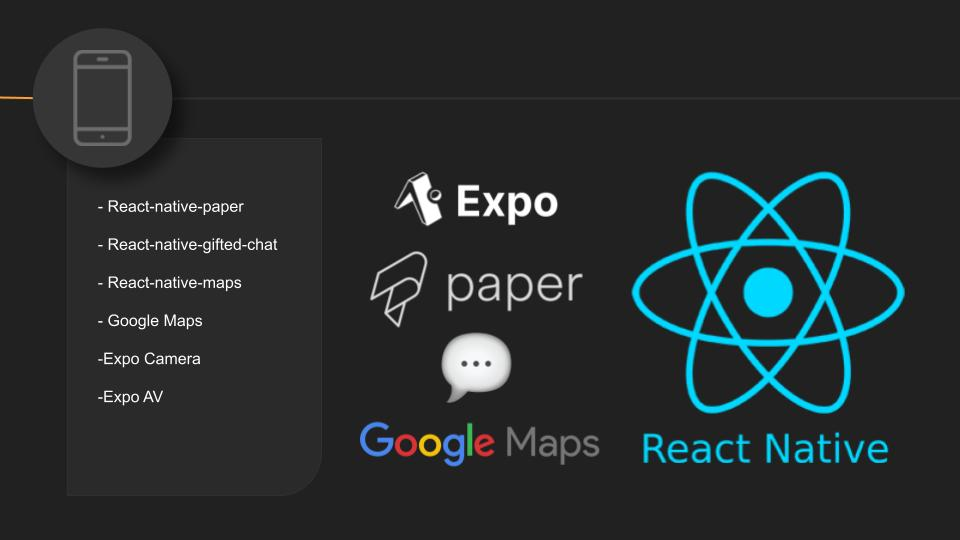
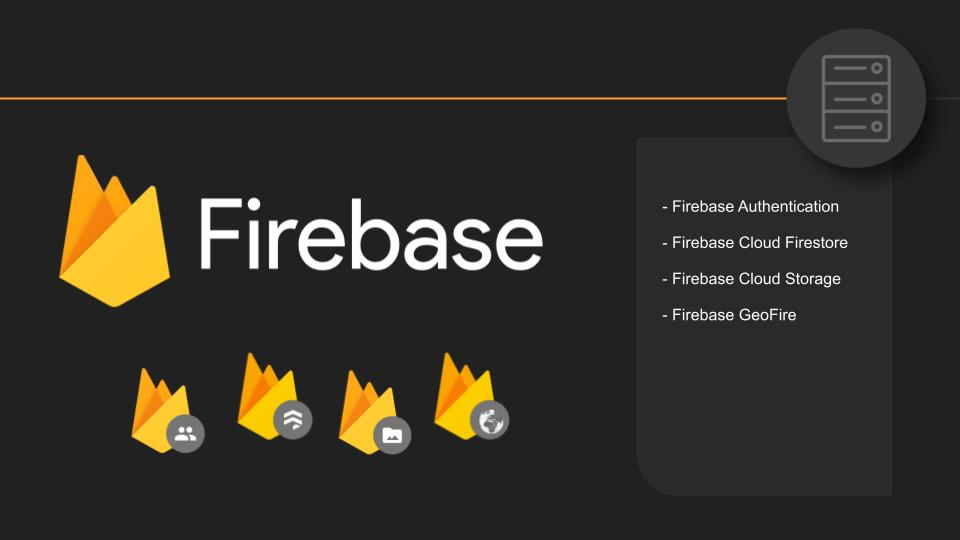
Add README file

diff --git a/README.md b/README.md
@@ -1,0 +1,28 @@
+# Amplify
+
+Amplify is a social media community mobile app, designed to connect local musicians through geolocation.
+
+A user-friendly UI that takes inspiration from the best parts of bigger social media apps. Amplify enables our users to show off and advertise their skills through in-app videos and connect with other musicians through in-app messaging services.
+
+## See the [product demo](https://www.youtube.com/watch?v=VH3ZniWAMrA&t=188s)
+
+&ensp;
+
+![](./assets/demo_screenshots/amplify_logo.jpg)
+
+<!-- ![](./assets/demo_screenshots/amplify_highlights.jpg) -->
+
+![](./assets/demo_screenshots/amplify-geolocation.jpg)
+![](./assets/demo_screenshots/amplify_media.jpg)
+![](./assets/demo_screenshots/amplify_messaging.jpg)
+
+&ensp;
+
+## Frontend Technologies
+
+![](./assets/demo_screenshots/amplify_frontend.jpg)
+&ensp;
+
+## Backend Technologies
+
+![](./assets/demo_screenshots/amplify_backend.jpg)
